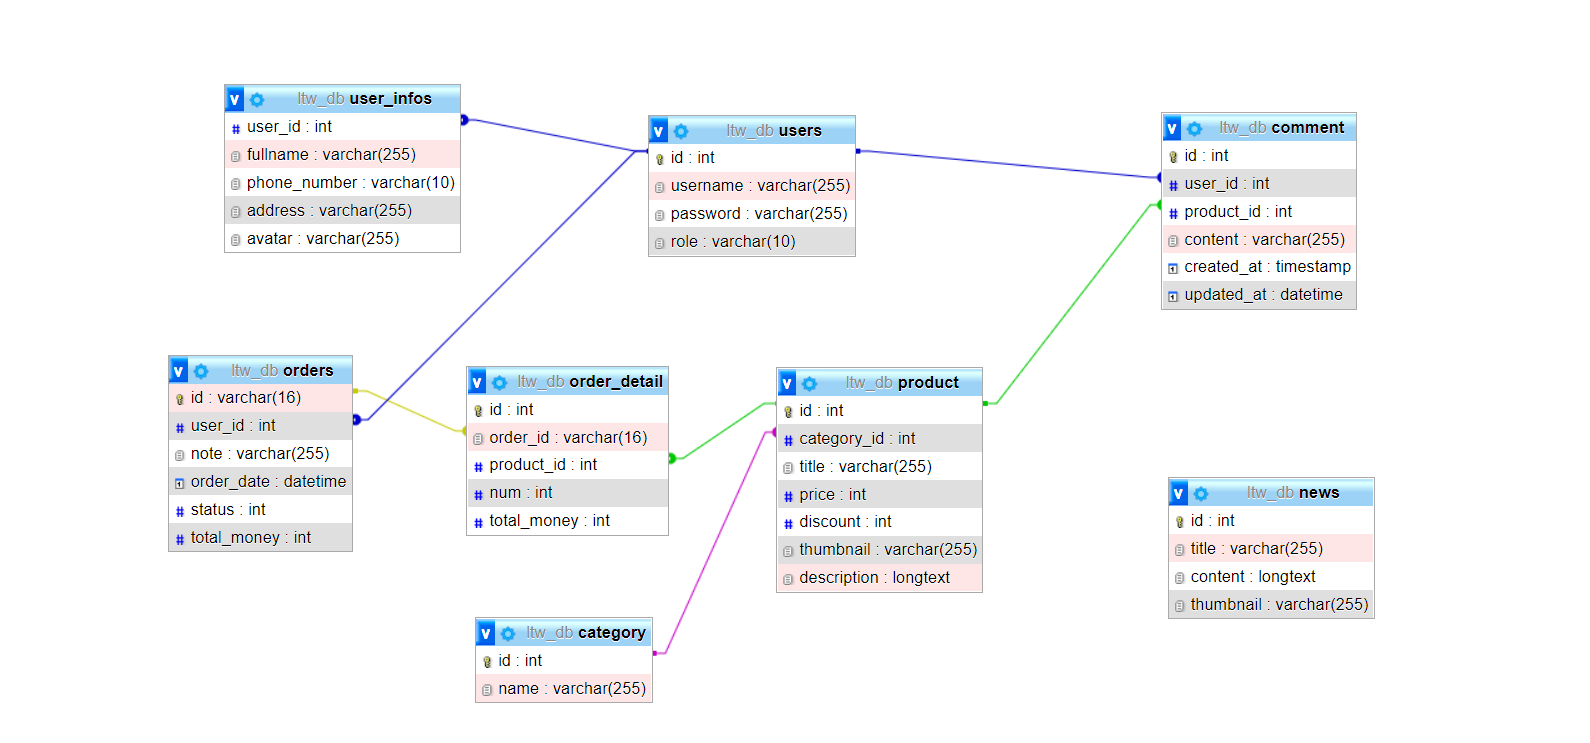
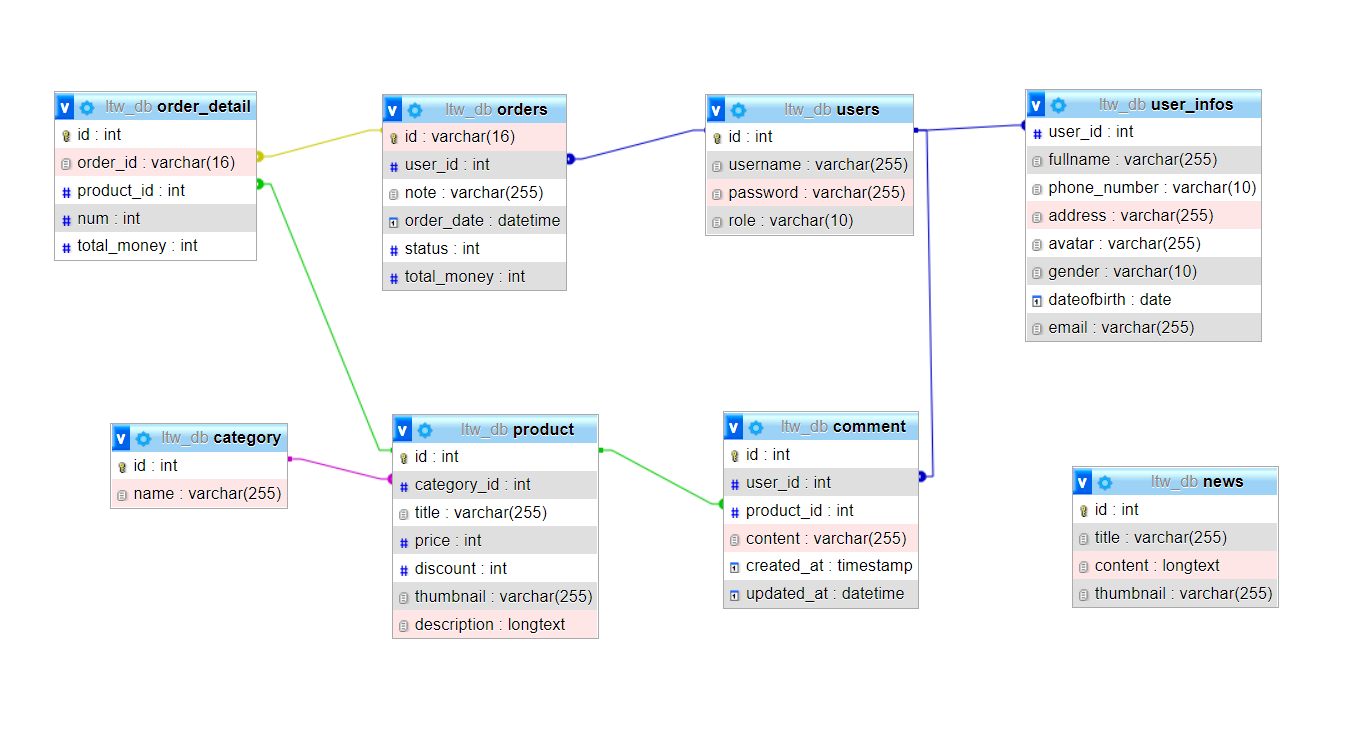
Fix API

Changed region(s): [[0.0307, 0.0902, 0.9211, 0.4809], [0.0614, 0.4809, 0.7061, 0.9617], [0.7368, 0.6311, 0.9518, 0.8415]]

diff --git a/Server/routes/user.route.php b/Server/routes/user.route.php
@@ -1,6 +1,7 @@
 <?php
 
     include_once './controllers/user.controller.php';
+    include_once './middleware/auth.php';
 
     $url = array_filter(explode('/', $_SERVER['REQUEST_URI']));
 
@@ -14,11 +15,11 @@
         /////////////////////////////////////////////////////////////////////////////////////
         if($url['3'] == 'login' and $method == 'POST'){
             try{
-                $data = json_decode(file_get_contents('php://input'));
+                $data = (array) json_decode(file_get_contents('php://input'));
 
-                if($data and $data->username and $data->password){
+                if($data and array_key_exists("username", $data) and array_key_exists("password", $data)){
 
-                    echo UserController::login($data->username, $data->password);
+                    echo UserController::login($data["username"], $data["password"]);
 
                     http_response_code(200);
                 }
@@ -34,14 +35,41 @@
             }
         }
         /////////////////////////////////////////////////////////////////////////////////////
+        // Change Password
+        /////////////////////////////////////////////////////////////////////////////////////
+        else if($url['3'] == 'changepassword' and $method == 'POST'){
+            try{
+                $data = (array) json_decode(file_get_contents('php://input'));
+
+                if($data and array_key_exists("username", $data) and array_key_exists("password", $data)){
+
+                    $auth = Auth::checkAuth(['admin']);
+
+                    echo UserController::changePassword($data["username"], $data["password"]);
+
+                    http_response_code(200);
+                }
+                else{
+                    echo json_encode(["message" => 'Change password failed!!!']);
+                    http_response_code(400);
+                }
+            }
+            catch(CustomError $e){
+                echo json_encode(['message' => $e->getMessage()]);
+                
+                http_response_code($e->getStatusCode());
+            }
+        }
+        /////////////////////////////////////////////////////////////////////////////////////
         // Signup
         /////////////////////////////////////////////////////////////////////////////////////
         else if($url['3'] == 'signup' and $method == 'POST'){
             try{
-                $data = json_decode(file_get_contents('php://input'));
+                $data = (array) json_decode(file_get_contents('php://input'));
 
-                if($data and $data->username and $data->password){
-                    echo UserController::signup($data->username, $data->password);
+                if($data and array_key_exists("username", $data) and array_key_exists("password", $data)){
+
+                    echo UserController::signup($data["username"], $data["password"]);
                     
                     http_response_code(200);
                 }

diff --git a/Server/routes/user_info.route.php b/Server/routes/user_info.route.php
@@ -8,7 +8,24 @@
 
     session_start();
 
-    if(!array_key_exists('3', $url)){
+    if(array_key_exists('3', $url)){
+        /////////////////////////////////////////////////////////////////////////////////////
+        // Get User Info By User
+        /////////////////////////////////////////////////////////////////////////////////////
+        if($url['3'] == 'getall' and $method == 'GET'){
+            try{
+                $auth = Auth::checkAuth(['admin']);
+
+                echo UserInfoController::getAllUserInfos();
+                http_response_code(200);
+            }
+            catch(CustomError $e){
+                echo json_encode(['message' => $e->getMessage()]);
+                http_response_code($e->getStatusCode());
+            }
+        }
+    }
+    else if(!array_key_exists('3', $url)){
         /////////////////////////////////////////////////////////////////////////////////////
         // Get User Info By User
         /////////////////////////////////////////////////////////////////////////////////////
@@ -31,7 +48,7 @@
             try{
                 $data = (array) json_decode(file_get_contents('php://input'));
                 
-                if($data != [] and array_key_exists('fullname', $data) and array_key_exists('phone_number', $data) and array_key_exists('address', $data) and array_key_exists('avatar', $data)){
+                if($data != [] and array_key_exists('fullname', $data) and array_key_exists('phone_number', $data) and array_key_exists('address', $data) and array_key_exists('avatar', $data) and array_key_exists('gender', $data) and array_key_exists('dateofbirth', $data) and array_key_exists('email', $data)){
 
                     $auth = Auth::checkAuth(['user']);
 
@@ -55,7 +72,7 @@
             try{
                 $data = (array) json_decode(file_get_contents('php://input'));
 
-                if($data != [] and array_key_exists('fullname', $data) and array_key_exists('phone_number', $data) and array_key_exists('address', $data) and array_key_exists('avatar', $data)){
+                if($data != [] and array_key_exists('fullname', $data) and array_key_exists('phone_number', $data) and array_key_exists('address', $data) and array_key_exists('avatar', $data) and array_key_exists('gender', $data) and array_key_exists('dateofbirth', $data) and array_key_exists('email', $data)){
                     
                     $auth = Auth::checkAuth(['user']);
 

diff --git a/Server/models/user_info.model.php b/Server/models/user_info.model.php
@@ -12,6 +12,21 @@ class UserInfo{
 
         $this->conn = $conn;
     }
+    
+    public function getAllUserInfos(){
+        try{
+            $query = "SELECT user_id, username, fullname, gender, dateofbirth, phone_number, email, address, avatar FROM user_infos join users on user_infos.user_id = users.id";
+
+            $result = $this->conn->prepare($query);
+
+            $result->execute();
+
+            return $result;
+        }
+        catch (PDOException $e){
+            throw new InternalServerError('Server Error!!!');
+        }
+    }
 
     public function getUserInfoByUserId($user_id){
         try{
@@ -38,7 +53,13 @@ class UserInfo{
 
             $avatar = $info['avatar'];
 
-            $query = "UPDATE user_infos SET fullname = '$fullname', phone_number = '$phone_number', address = '$address', avatar = '$avatar' WHERE user_id = '$user_id'";
+            $gender = $info['gender'];
+
+            $dateofbirth = $info['dateofbirth'];
+
+            $email = $info['email'];
+
+            $query = "UPDATE user_infos SET fullname = '$fullname', phone_number = '$phone_number', address = '$address', avatar = '$avatar', gender = '$gender', dateofbirth = '$dateofbirth', email = '$email' WHERE user_id = '$user_id'";
 
             $result = $this->conn->prepare($query);
 
@@ -60,7 +81,13 @@ class UserInfo{
 
             $avatar = $info['avatar'];
 
-            $query = "INSERT INTO user_infos VALUES ('$user_id', '$fullname', '$phone_number', '$address', '$avatar')";
+            $gender = $info['gender'];
+
+            $dateofbirth = $info['dateofbirth'];
+
+            $email = $info['email'];
+
+            $query = "INSERT INTO user_infos VALUES ('$user_id', '$fullname', '$phone_number', '$address', '$avatar', '$gender', '$dateofbirth', '$email')";
 
             $result = $this->conn->prepare($query);
 

diff --git a/Server/controllers/user_info.controller.php b/Server/controllers/user_info.controller.php
@@ -4,6 +4,22 @@ include_once './models/user_info.model.php';
 include_once './middleware/error/custom_error.php';
 
 class UserInfoController{
+    //////////////////////////////////////////////////////////////
+    //Get All User Info
+    //////////////////////////////////////////////////////////////
+    public static function getAllUserInfos(){
+        $temp = new UserInfo();
+
+        $user_info = $temp->getAllUserInfos();
+
+        if($user_info->rowCount() > 0){
+            $rows = $user_info->fetchAll(PDO::FETCH_ASSOC);
+
+            return json_encode(["data" => $rows]);
+        }
+
+        throw new NotFoundError("User info not found!!!");
+    }
 
     //////////////////////////////////////////////////////////////
     //Get User Info By User
@@ -36,7 +52,7 @@ class UserInfoController{
 
         $new_user_info = $temp->updateUserInfo($user_id, $info);
 
-        return json_encode(["message" => "Successful!!!"]);
+        return json_encode(["message" => "Successfully!!!"]);
 
     }
 
@@ -54,7 +70,7 @@ class UserInfoController{
 
         $user_info = $temp->createUserInfo($user_id, $info);
 
-        return json_encode(["message" => "Successful!!!"]);
+        return json_encode(["message" => "Successfully!!!"]);
     }
 }
 

diff --git a/Server/controllers/user.controller.php b/Server/controllers/user.controller.php
@@ -42,6 +42,26 @@ class UserController{
     }
 
     /////////////////////////////////////////////////////////////////////////////////////
+    // Change Password
+    /////////////////////////////////////////////////////////////////////////////////////
+    public static function changePassword($username, $password){
+        $temp = new User();
+
+        $user = $temp->getUserByUsername($username);
+
+        if($user->rowCount() > 0){
+            
+            $password = password_hash($password, PASSWORD_BCRYPT);
+
+            $new_user = $temp->changePassword($username, $password);
+
+            return json_encode(["message" => "Successfully!!!"]);
+        }
+
+        throw new NotFoundError('Username not found!!!');
+    }
+
+    /////////////////////////////////////////////////////////////////////////////////////
     // Signup
     /////////////////////////////////////////////////////////////////////////////////////
     public static function signup($username, $password){

diff --git a/Server/controllers/category.controller.php b/Server/controllers/category.controller.php
@@ -33,7 +33,7 @@ class CategoryController{
 
         $new_category = $temp->createCategory($name);
 
-        return json_encode(["message" => "Successful!!!"]);
+        return json_encode(["message" => "Successfully!!!"]);
     }
     //////////////////////////////////////////////////////////////
     //Update Category
@@ -49,7 +49,7 @@ class CategoryController{
 
         $new_category = $temp->updateCategory($info);
 
-        return json_encode(["message" => "Successful!!!"]);
+        return json_encode(["message" => "Successfully!!!"]);
     }
     //////////////////////////////////////////////////////////////
     //Delete Category
@@ -65,7 +65,7 @@ class CategoryController{
 
         $new_category = $temp->deleteCategory($category_id);
 
-        return json_encode(["message" => "Successful!!!"]);
+        return json_encode(["message" => "Successfully!!!"]);
     }
 }
 ?>

diff --git a/Server/controllers/comment.controller.php b/Server/controllers/comment.controller.php
@@ -43,7 +43,7 @@ class CommentController{
 
         $new_comment = $temp->createComment($info);
 
-        return json_encode(["message" => "Successful!!!"]);
+        return json_encode(["message" => "Successfully!!!"]);
     }
     //////////////////////////////////////////////////////////////
     //Update Comment
@@ -59,7 +59,7 @@ class CommentController{
 
         $new_comment = $temp->updateComment($info);
 
-        return json_encode(["message" => "Successful!!!"]);
+        return json_encode(["message" => "Successfully!!!"]);
     }
     //////////////////////////////////////////////////////////////
     //Delete Comment
@@ -75,7 +75,7 @@ class CommentController{
 
         $new_comment = $temp->deleteComment($comment_id);
 
-        return json_encode(["message" => "Successful!!!"]);
+        return json_encode(["message" => "Successfully!!!"]);
     }
 }
 ?>

diff --git a/Server/controllers/product.controller.php b/Server/controllers/product.controller.php
@@ -27,7 +27,7 @@ class ProductController{
 
         $new_product = $temp->createProduct($info);
 
-        return json_encode(["message" => "Successful!!!"]);
+        return json_encode(["message" => "Successfully!!!"]);
     }
     //////////////////////////////////////////////////////////////
     //Update Product
@@ -43,7 +43,7 @@ class ProductController{
 
         $new_product = $temp->updateProduct($info);
 
-        return json_encode(["message" => "Successful!!!"]);
+        return json_encode(["message" => "Successfully!!!"]);
     }
     //////////////////////////////////////////////////////////////
     //Delete Product
@@ -59,7 +59,7 @@ class ProductController{
 
         $new_product = $temp->deleteProduct($product_id);
 
-        return json_encode(["message" => "Successful!!!"]);
+        return json_encode(["message" => "Successfully!!!"]);
     }
 }
 ?>

diff --git a/Server/controllers/news.controller.php b/Server/controllers/news.controller.php
@@ -44,7 +44,7 @@ class NewsController{
 
         $new_news = $temp->createNews($info);
 
-        return json_encode(["message" => "Successful!!!"]);
+        return json_encode(["message" => "Successfully!!!"]);
     }
     //////////////////////////////////////////////////////////////
     //Update News
@@ -60,7 +60,7 @@ class NewsController{
 
         $new_news = $temp->updateNews($info);
 
-        return json_encode(["message" => "Successful!!!"]);
+        return json_encode(["message" => "Successfully!!!"]);
     }
     //////////////////////////////////////////////////////////////
     //Delete News
@@ -76,7 +76,7 @@ class NewsController{
 
         $new_news = $temp->deleteNews($news_id);
 
-        return json_encode(["message" => "Successful!!!"]);
+        return json_encode(["message" => "Successfully!!!"]);
     }
 }
 

diff --git a/Server/models/user.model.php b/Server/models/user.model.php
@@ -47,5 +47,22 @@ class User{
 
     }
 
+    public function changePassword($username, $password){
+
+        try {
+            $query = "UPDATE users SET password = '$password' WHERE username = '$username'";
+
+            $result = $this->conn->prepare($query);
+
+            $result->execute();
+            
+            return $result;
+        }
+        catch (PDOException $e){
+            throw new InternalServerError('Server Error!!!');
+        }
+
+    }
+
 }
 ?>

diff --git a/Server/models/product.model.php b/Server/models/product.model.php
@@ -14,7 +14,7 @@ class Product{
 
     public function getAllProduct(){
         try{
-            $query = "SELECT * FROM product";
+            $query = "SELECT product.id, category_id, name as category_name, title, price, discount, thumbnail, description FROM product join category on product.category_id = category.id";
 
             $result = $this->conn->prepare($query);
 

diff --git a/Server/controllers/order.controller.php b/Server/controllers/order.controller.php
@@ -75,7 +75,7 @@ class OrderController{
 
         $new_order = $temp->createOrder($info);
 
-        return json_encode(["message" => "Successful!!!"]);
+        return json_encode(["message" => "Successfully!!!"]);
     }
 }
 ?>
